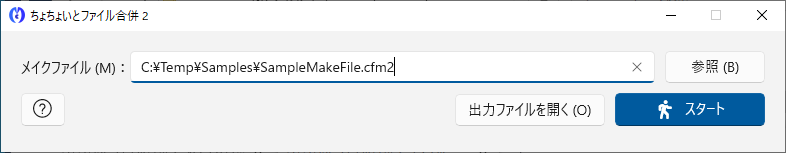
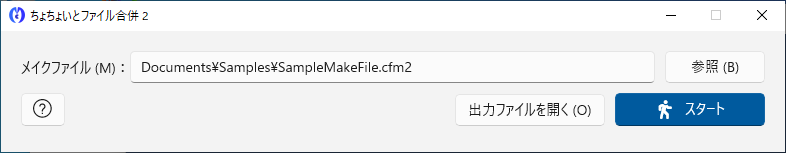
Ver 0.57 時点

diff --git a/CFileMerge2/Documents/CFileMerge2_JPN.html b/CFileMerge2/Documents/CFileMerge2_JPN.html
@@ -9,7 +9,7 @@
 <head>
 <meta charset="UTF-8">
 <title>ちょちょいとファイル合併 2&nbsp; Ver 1.0 ヘルプ</title>
-<link rel="stylesheet" href="HelpParts/SHIHelpG2.css" type="text/css">
+<link rel="stylesheet" href="HelpParts/SHIHelpG3.css" type="text/css">
 <script src="HelpParts/jquery.min.js"></script>
 <script src="HelpParts/Scroll.js"></script>
 </head>
@@ -63,8 +63,67 @@
 <p>
   ちょちょいとファイル合併 2&nbsp;を Microsoft Store から入手することでインストールが完了します。<br>
   <br>
-  更新（バージョンアップ）は自動的に行われます。更新版が公開された場合、何度かニコカラメーカー 2  を使用しているうちに自動的に更新されますので、通常は何ら更新作業は必要ありません。自動更新を待つのではなくすぐに更新したい場合は、Microsoft Store で更新してください。<br>
+  更新（バージョンアップ）は自動的に行われます。更新版が公開された場合、何度かちょちょいとファイル合併 2&nbsp;を使用しているうちに自動的に更新されますので、通常は何ら更新作業は必要ありません。自動更新を待つのではなくすぐに更新したい場合は、Microsoft Store で更新してください。<br>
 </p>
+
+<h1 id="Tutorial">チュートリアル</h1>
+
+<p>
+  ちょちょいとファイル合併 2&nbsp;で HTML ヘルプを作成する一連の流れを説明します。<br>
+</p>
+
+<h2 id="Kido">起動</h2>
+
+<p>
+  <a href="HelpParts/CFileMerge2_StartMenu.png" target="_blank"><img src="HelpParts/CFileMerge2_StartMenu.png"
+    alt="" width="256" align="right" hspace="10" vspace="10"></a>
+  スタートメニューの「た」行の位置にちょちょいとファイル合併 2&nbsp;が登録されているので、クリックして起動します。<br clear="right">
+  <br>
+  <a href="HelpParts/CFileMerge2_MainWindow_Launched.png" target="_blank"><img src="HelpParts/CFileMerge2_MainWindow_Launched.png" alt="" width="256" align="right" hspace="10" vspace="10"></a>
+  メインウィンドウが表示されます。<br clear="right">
+</p>
+
+<h2 id="MakefileShitei">メイクファイル指定</h2>
+
+<p>
+  HTML ヘルプを作成するために、メイクファイルを指定します。<br>
+  <br>
+  本チュートリアルでは、サンプルとして用意されているメイクファイルを指定します。<br>
+  <br>
+  <img src="HelpParts/CFileMerge2_ButtonHelp.png" alt="" height="32" class="InlineImg">（ヘルプボタン）をクリックし、［サンプルフォルダー］メニューをクリックすると、サンプルが用意されているフォルダーが開きます。<br>
+</p>
+
+<blockquote>
+  （補足）<br>
+  ヘルプボタン初回クリック時はメニューが狭く表示されますが、2 度目以降は普通に表示されます。<br>
+</blockquote>
+
+<p>
+  「メイクファイル」欄に、サンプルフォルダー内にある「SampleMakeFile.cfm2」のフルパスを入力します。<br>
+  <br>
+  もしくは、相対パスで「Documents\Samples\SampleMakeFile.cfm2」と入力します。<br>
+  <br>
+  <a href="HelpParts/CFileMerge2_MakefileBrowser.png" target="_blank"><img src="HelpParts/CFileMerge2_MakefileBrowser.png" alt="" width="256" align="right" hspace="10" vspace="10"></a>
+  メイクファイルの中身は HTML ファイルです。従って、メイクファイルを Web ブラウザで開くと内容を見ることができます。<br>
+</p>
+
+
+
+
+
+
+
+
+
+
+
+
+
+
+
+
+
+
 
 
 
@@ -82,6 +141,9 @@
 <div class="TocItemH2"><a href="#Gaiyou">概要</a></div>
 <div class="TocItemH2"><a href="#Dousakankyou">動作環境</a></div>
 <div class="TocItemH2"><a href="#Install">インストール</a></div>
+<div class="TocItemH1"><a href="#Tutorial">チュートリアル</a></div>
+<div class="TocItemH2"><a href="#Kido">起動</a></div>
+<div class="TocItemH2"><a href="#MakefileShitei">メイクファイル指定</a></div>
 </div>
 
 </div><!-- LCol -->

diff --git a/CFileMerge2/Documents/HelpParts/SHIHelpG3.css b/CFileMerge2/Documents/HelpParts/SHIHelpG3.css
@@ -184,19 +184,19 @@ pre
 -- サイドメニュー関連
 ---------------------------------------------------------------------------- */
 
-div.SideMenuItemH1
+div.TocItemH1
 {
 	margin: 20px 0px 10px 10px;
 	white-space: pre;
 }
 
-div.SideMenuItemH2
+div.TocItemH2
 {
 	margin: 0px 0px 0px 20px;
 	white-space: pre;
 }
 
-div.SideMenuItemH1 a
+div.TocItemH1 a
 {
 	border-radius: 4px 4px 4px 4px;
 	color: #00BB55;
@@ -207,35 +207,35 @@ div.SideMenuItemH1 a
 	text-decoration: none;
 }
 
-div.SideMenuItemH2 a
+div.TocItemH2 a
 {
 	color: #00BB55;
 	padding-left: 10px;
 	text-decoration: none;
 }
 
-div.SideMenuItemH1 a:visited
+div.TocItemH1 a:visited
 {
 	padding-left: 10px;
 	color: #006622;
 }
 
-div.SideMenuItemH2 a:visited
+div.TocItemH2 a:visited
 {
 	padding-left: 10px;
 	color: #006622;
 }
 
-div.SideMenuItemH1 a:hover
-, div.SideMenuItemH1 a:active
+div.TocItemH1 a:hover
+, div.TocItemH1 a:active
 {
 	padding-left: 5px;
 	border-left: solid 5px #00EE99;
 	text-decoration: underline;
 }
 
-div.SideMenuItemH2 a:hover
-, div.SideMenuItemH2 a:active
+div.TocItemH2 a:hover
+, div.TocItemH2 a:active
 {
 	padding-left: 5px;
 	border-left: solid 5px #00EE99;

diff --git a/CFileMerge2/ViewModels/MainPageViewModel.cs b/CFileMerge2/ViewModels/MainPageViewModel.cs
@@ -580,7 +580,7 @@ public class MainPageViewModel : ObservableRecipient
         _mergeInfo = new();
 
         // デフォルト値を設定
-        _mergeInfo.MakeFullPath = Path.GetFullPath(MakePath);
+        _mergeInfo.MakeFullPath = Path.GetFullPath(MakePath, Cfm2Model.Instance.EnvModel.ExeFullFolder);
         _mergeInfo.IncludeFullFolder = Path.GetDirectoryName(_mergeInfo.MakeFullPath) ?? String.Empty;
         _mergeInfo.OutFullPath = Path.GetDirectoryName(_mergeInfo.MakeFullPath) + "\\" + Path.GetFileNameWithoutExtension(_mergeInfo.MakeFullPath) + "Output" + Common.FILE_EXT_HTML;
 
